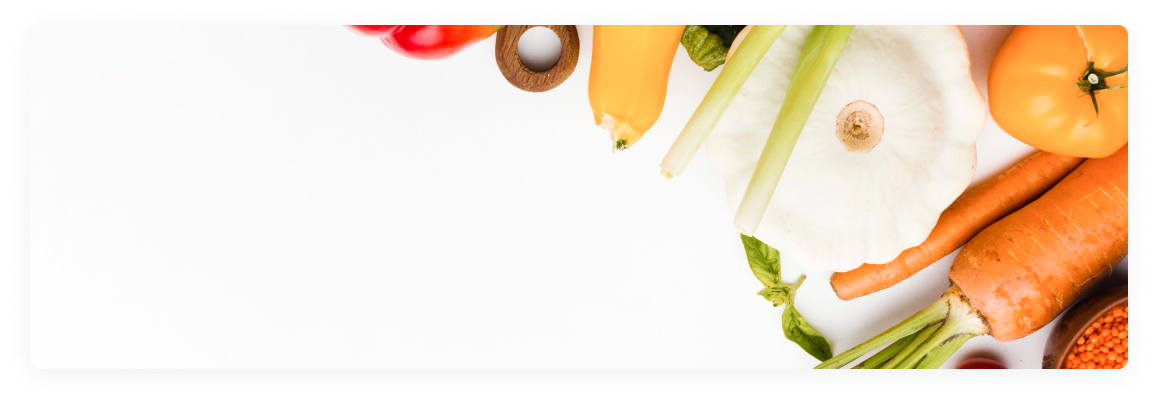
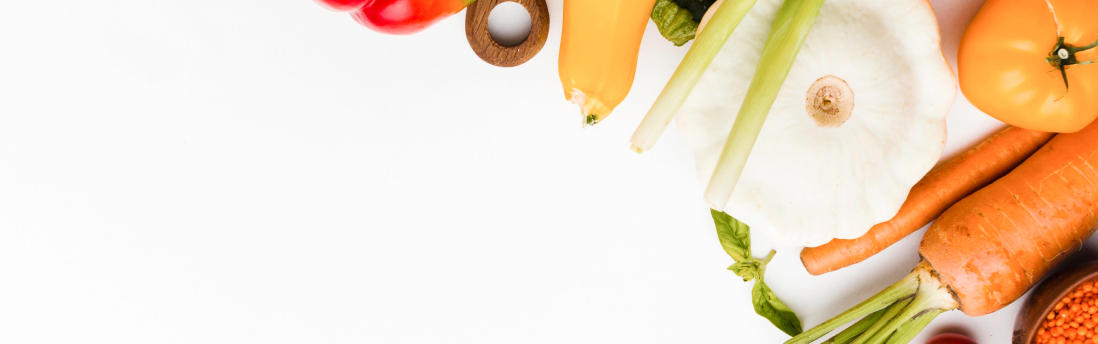
Add styles to slider elements

Changed region(s): [[0.2787, 0.0, 1.0, 1.0], [0.4954, 0.2326, 0.6193, 0.3779], [0.5574, 0.3488, 0.6193, 0.436]]

diff --git a/css-grid-cases/09-food-delivery/css/style.css b/css-grid-cases/09-food-delivery/css/style.css
@@ -39,6 +39,7 @@ body {
   grid-template-rows: 60px 1fr auto;
   row-gap: 48px;
   background-color: #FFFFFF;
+  box-shadow: 0px 5px 30px rgba(29, 29, 32, 0.07);
   border-radius: 10px
 }
 
@@ -106,6 +107,69 @@ body {
 
 .page-main {
   grid-area: 1 / 2 / -2 / -1;
+}
+
+.slider {
+  position: relative;
+  max-height: 344px;
+}
+
+.slider-img {
+  box-shadow: 0px 5px 30px rgba(29, 29, 32, 0.07);
+  border-radius: 10px;
+}
+
+.slider-description {
+  position: absolute;
+  top: 0;
+  bottom: 0;
+  left: 60px;
+  max-width: 450px;
+  max-height: 132px;
+  margin: auto;
+}
+
+.slider-headline {
+  margin: 0 0 20px 0;
+  font-weight: 500;
+  font-size: 26px;
+  line-height: 130%;
+}
+
+.slider-text {
+  margin: 0;
+  font-size: 16px;
+  line-height: 140%;
+}
+
+.slider-controls {
+  position: absolute;
+  bottom: 20px;
+  left: 50%;
+  transform: translateX(-50%);
+  display: flex;
+  flex-wrap: nowrap;
+  margin: 0 auto;
+  padding: 0;
+  list-style: none;
+}
+
+.slider-controls-item:not(:last-child) {
+  margin-right: 10px;
+}
+
+.slider-controls-button {
+  width: 10px;
+  height: 10px;
+  padding: 0;
+  background-color: #E8E8EB;
+  border: none;
+  border-radius: 50%;
+  cursor: pointer;
+}
+
+.slider-controls-button-active {
+  background-color: #31B768;
 }
 
 .page-promo {

diff --git a/css-grid-cases/09-food-delivery/index.html b/css-grid-cases/09-food-delivery/index.html
@@ -48,7 +48,7 @@
   <main class="page-main">
     <h1 class="visually-hidden">Главная страница сайта готовых рационов AllFood</h1>
     <div class="slider">
-      <img src="img/content/slider-img.png" width="1098" height="344" alt="Набор продуктов: морковь, патиссон, перец, лук, помидор, чечевица">
+      <img class="slider-img" src="img/content/slider-img.png" width="1098" height="344" alt="Набор продуктов: морковь, патиссон, перец, лук, помидор, чечевица">
       <div class="slider-description">
         <p class="slider-headline">Топ продуктов во время пандемии - где взять витамины C, D и цинк</p>
         <p class="slider-text">В этом году нам досталось настоящее испытание в виде пандемии, и, кажется, обычный чай тут уже не поможет.</p>
